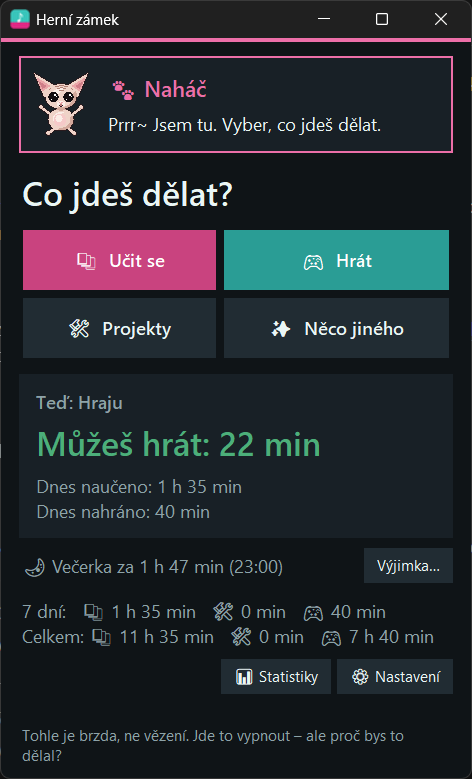
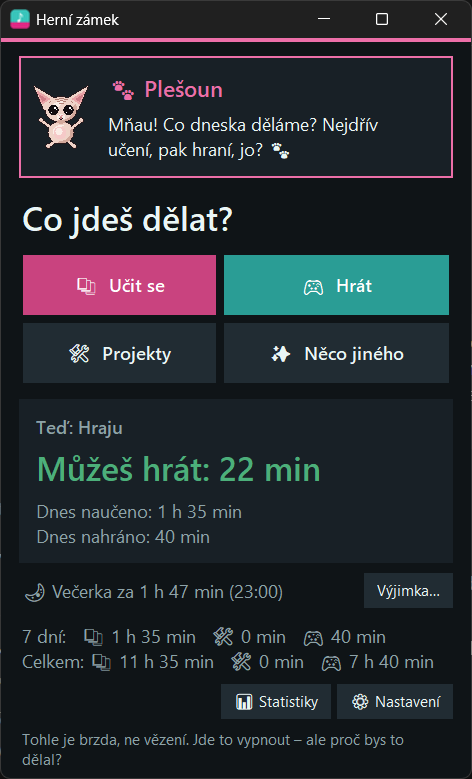
Modern settings window, rename the cat to Plešoun
- settings with tabs, toggle switches and segmented buttons
- Save and Cancel always visible, window fits the screen and is centred
- saving a new language, mascot or theme restarts the app right away
- the cat's Czech name is now Plešoun (English stays Baldie)

diff --git a/i18n.py b/i18n.py
@@ -143,6 +143,14 @@ STR: dict[str, dict[str, str]] = {
     "set_title": {"cs": "Nastavení", "en": "Settings"},
     "set_lang": {"cs": "Jazyk", "en": "Language"},
     "set_mascot": {"cs": "Maskot", "en": "Mascot"},
+    "tab_general": {"cs": "Obecné", "en": "General"},
+    "tab_games": {"cs": "Hry", "en": "Games"},
+    "tab_notices": {"cs": "Upozornění", "en": "Notices"},
+    "tab_about": {"cs": "O appce", "en": "About"},
+    "set_autostart_title": {"cs": "Spouštění", "en": "Startup"},
+    "set_rules": {"cs": "Pravidla", "en": "Rules"},
+    "set_restart_hint": {"cs": "Změna jazyka, maskota nebo vzhledu appku po uložení restartuje.",
+                         "en": "Changing the language, mascot or theme restarts the app after saving."},
     "set_theme": {"cs": "Vzhled", "en": "Theme"},
     "theme_system": {"cs": "Podle Windows", "en": "Follow Windows"},
     "theme_dark": {"cs": "Tmavý", "en": "Dark"},

diff --git a/zamek_core.py b/zamek_core.py
@@ -22,7 +22,7 @@ except ImportError:  # appka bez psutil hry nehlídá, ale nespadne
 
 import sys
 
-VERSION = "1.4.0"  # musí odpovídat tagu releasu, podle něj se hledají aktualizace
+VERSION = "1.4.1"  # musí odpovídat tagu releasu, podle něj se hledají aktualizace
 
 IS_WIN = sys.platform == "win32"
 IS_MAC = sys.platform == "darwin"

diff --git a/README.cs.md b/README.cs.md
@@ -1,7 +1,7 @@
 # Herní zámek (Game Lock Companion)
 
 **Nejdřív učení, pak hry.** Malá appka pro Windows, macOS a Linux, která tě nepustí hrát, dokud se neučíš.
-Každá minuta učení ti vydělá čas na hraní. Maskot (Miku, nebo kočka sphynx Naháč) ti dělá společnost, fandí ti a zavře hru,
+Každá minuta učení ti vydělá čas na hraní. Maskot (Miku, nebo kočka sphynx Plešoun) ti dělá společnost, fandí ti a zavře hru,
 když čas dojde.
 
 > **[English](README.md)** · Nápad a návrh: **[N0V1RU5](https://github.com/N0V1RU5)** · Open source (MIT)
@@ -125,18 +125,18 @@ Po úpravě `config.json` appku restartuj (Správce úloh → ukončit → spust
 
 ## Maskoti
 
-Maskota si vybereš v **Nastavení**. Appka převezme jeho barvu: Miku je tyrkysová, kočka sphynx Naháč
+Maskota si vybereš v **Nastavení**. Appka převezme jeho barvu: Miku je tyrkysová, kočka sphynx Plešoun
 (anglicky Baldie) růžová.
 
 <p>
-  <img src="docs/screenshots/main_nahac_cs_dark.png" width="300" alt="Naháč, tmavý vzhled">
+  <img src="docs/screenshots/main_nahac_cs_dark.png" width="300" alt="Plešoun, tmavý vzhled">
   <img src="docs/screenshots/main_nahac_en_light.png" width="300" alt="Baldie, světlý vzhled, anglicky">
 </p>
 
 ### Vlastní postava
 
 Každý maskot v `personas.json` má jméno, barvu (`accent`: `teal` nebo `pink`), složku s obrázky a hlášky
-(`cs` a `en`, `{min}` = počet minut). Obrázky Miku jsou v `obrazky/`, Naháče v `obrazky_nahac/`:
+(`cs` a `en`, `{min}` = počet minut). Obrázky Miku jsou v `obrazky/`, Plešouna v `obrazky_nahac/`:
 `happy`, `study`, `angry`, `sleepy`, `alert` jako `.gif` (může být animovaný) nebo `.png`, kolem 100×100 px.
 `tools/import_obrazky.py` převede soubor z Aseprite, sprite sheet nebo složku obrázků do tohohle formátu.
 
@@ -155,7 +155,7 @@ macOS i Linuxu a tag `v*` sestaví do releasu všechny tři zipy.
 
 ## Licence
 
-Kód a kočka Naháč: [MIT](LICENSE) © N0V1RU5. Obrázky Miku: nekomerční fan art, viz [NOTICE](NOTICE.md).
+Kód a kočka Plešoun: [MIT](LICENSE) © N0V1RU5. Obrázky Miku: nekomerční fan art, viz [NOTICE](NOTICE.md).
 
 Když máš pocit, že ti hraní přerůstá přes hlavu, řekni to někomu, komu věříš, nebo zavolej
 na Linku první psychické pomoci **116 123** (zdarma, nonstop). Appka je pomocník, ne léčba.

diff --git a/README.md b/README.md
@@ -128,12 +128,12 @@ Restart the app after editing `config.json` (tray icon → quit in Task Manager 
 
 ## Mascots
 
-Pick your mascot in **Settings**. The app takes the mascot's colour: Miku is teal, Baldie (Naháč in Czech)
+Pick your mascot in **Settings**. The app takes the mascot's colour: Miku is teal, Baldie (Plešoun in Czech)
 the sphynx cat is pink.
 
 <p>
   <img src="docs/screenshots/main_nahac_en_light.png" width="300" alt="Baldie the sphynx cat, light theme">
-  <img src="docs/screenshots/main_nahac_cs_dark.png" width="300" alt="Naháč, dark theme, Czech">
+  <img src="docs/screenshots/main_nahac_cs_dark.png" width="300" alt="Plešoun, dark theme, Czech">
 </p>
 
 ### Your own character

diff --git a/NOTICE.md b/NOTICE.md
@@ -1,6 +1,6 @@
 # Notice
 
-**Code** and **Baldie / Naháč the sphynx cat** (`obrazky_nahac/`, original art made for this project)
+**Code** and **Baldie / Plešoun the sphynx cat** (`obrazky_nahac/`, original art made for this project)
 are under the [MIT License](LICENSE).
 
 **Character art** in `obrazky/` and docs screenshots: fan art of **Hatsune Miku**.
